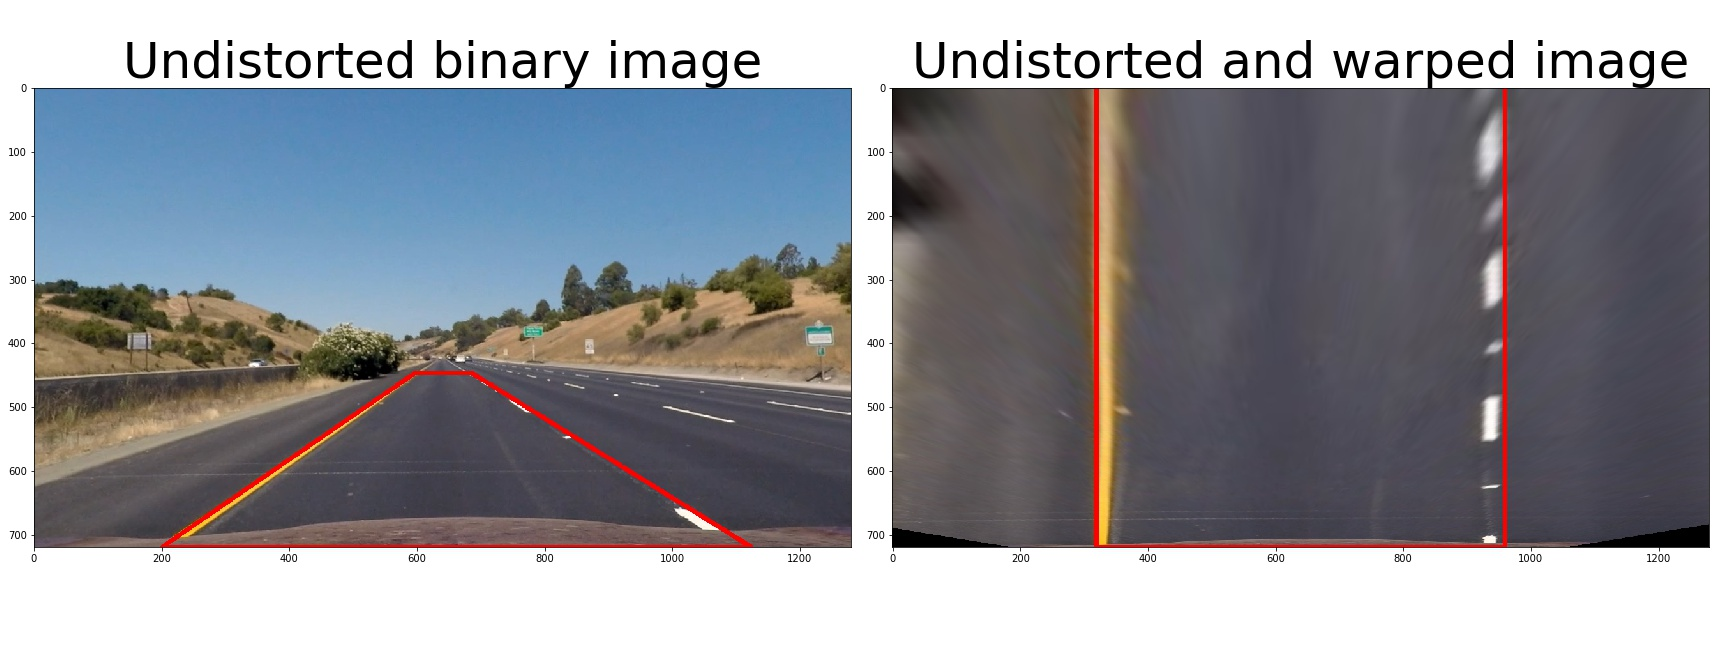
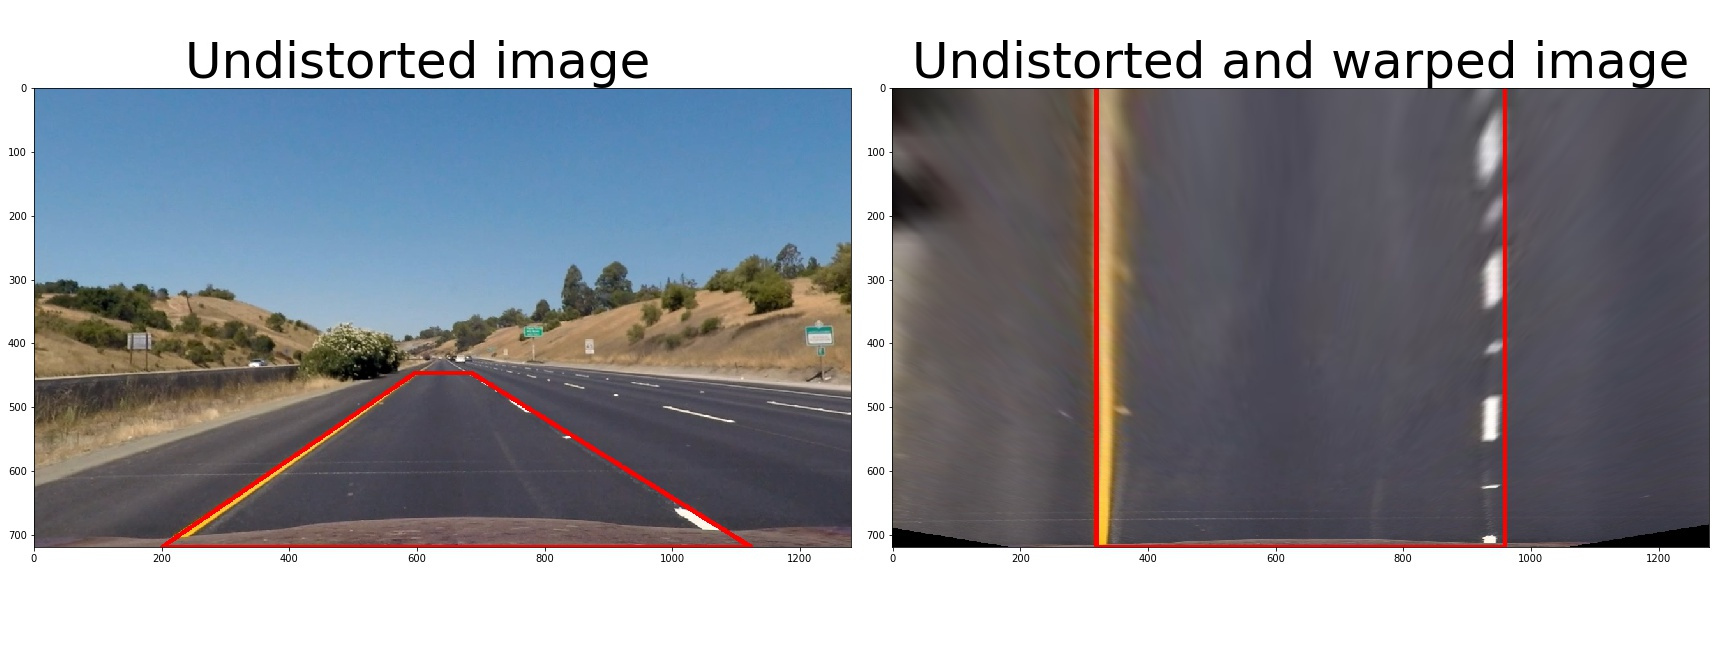
doc(README): update image5 and add details in explanation

Changed region(s): [[0.0625, 0.0617, 0.4375, 0.1235]]

diff --git a/README.md b/README.md
@@ -37,26 +37,26 @@ The code for this step is contained in the functions `compute_camera_calibration
 
 First I prepare "object points", which will be the (x, y, z) coordinates of the chessboard corners in the world. Here I am assuming the chessboard is fixed on the (x, y) plane at z=0, such that the object points are the same for each calibration image.  Thus, `objp` is just a replicated array of coordinates, and `objpoints` will be appended with a copy of it every time I successfully detect all chessboard corners in a test image.  `imgpoints` will be appended with the (x, y) pixel position of each of the corners in the image plane with each successful chessboard detection.  
 
-I then used the output `objpoints` and `imgpoints` to compute the camera calibration and distortion coefficients using the `cv2.calibrateCamera()` function.  I applied this distortion correction to the test image using the `cv2.undistort()` function and obtained this result: 
+I then use the output `objpoints` and `imgpoints` to compute the camera calibration and distortion coefficients using the `cv2.calibrateCamera()` function.  I applied this distortion correction to the test image using the `cv2.undistort()` function and obtained this result: 
 
 ![alt text][image0]
 
 ### Pipeline
 
-#### 1. Input image distortion correction.
+#### 1. Input image distortion correction
 
 In this step I use the distortion coefficients from the calibration step and `undistort_image()` to undistort the input image. This is the result of the undistortion for one of the input images:
 ![alt text][image3]
 
-#### 2. Color transforms to create a thresholded binary image.
+#### 2. Color transforms to create a thresholded binary image
 
-For seperating the lane markings from the background I convert the input image into the HSL color space and use a combination of thresholds on different color channels to generate a binary image (thresholding steps in function `image_to_thresholded_binary()` at lines 269 through 287 and `extract_single_color()` at lines 195 through 210). This way I can detect the white lane markings by thresholding based on the L (lightness) value. To improve detection of the yellow lane markings filtering the image by the corresponding H (hue) values helps for a good detection especially in darker areas (shadows etc.). Here's an example of my output for this step:
-
+For seperating the lane markings from the background I convert the input image into the HSL color space and use a combination of thresholds on different color channels to generate a binary image (thresholding steps in function `image_to_thresholded_binary()` at lines 269 through 287 and `extract_single_color()` at lines 195 through 210). This way I can detect the white lane markings by thresholding based on the L (lightness) value. To improve detection of the yellow lane markings filtering the image by the corresponding H (hue) values helps for a good detection especially in darker areas (shadows etc.). The result of both thresholded images are then combined. Here's an example of the output for this step:
 ![alt text][image4]
+As you can see the lane markings are selected and the rest of the street got cut out quite nicely, particularly in the region of interest which is our lane. There are other detections that are outside of our ROI, such as the landscape in the background and detections of the cars on other lanes. We do not have to worry about these detections because these parts of the image will get cut out in the perspective transform which is the next step in the pipeline.
 
-#### 3. Perform a perspective transform to generate a birds-eye-view.
+#### 3. Perform a perspective transform to generate a "birds-eye view"
 
-The code for my perspective transform includes a function called `warp()`, which appears in lines 290 through 301.  The `warp()` function takes as inputs an image (`img`), as well as source (`src`) and destination (`dst`) points. I chose to hardcode the source and destination points in the following manner:
+The code for my perspective transform includes a function called `warp()` (which appears in lines 290 through 301).  This `warp()` function takes as inputs an image (`img`), as well as source (`src`) and destination (`dst`) points. I choose to select and hardcode the source and destination points in the following manner to cut out the relevant ROI:
 
 ```python
 src = np.float32(
@@ -71,22 +71,22 @@ dst = np.float32(
     [950,img.shape[0]],
 ```
 
-This resulted in the following source and destination points:
+This results in the following source and destination points:
 
 | Source        | Destination   | 
 |:-------------:|:-------------:| 
 | 165, 720      | 300, 720      | 
-| 596, 447      | 300, 0        |
-| 681, 447      | 950, 0        |
+| 596, 447      | 300,   0      |
+| 681, 447      | 950,   0      |
 | 1124, 720     | 950, 720      |
 
-I verified that my perspective transform was working as expected by drawing the `src` and `dst` points onto a test image and its warped counterpart to verify that the lines appear parallel in the warped image.
+I verify that my perspective transform is working as expected by drawing the `src` and `dst` points onto a test image and its warped counterpart to verify that the lines appear parallel in the warped image.
 
 ![alt text][image5]
 
-#### 4. Identify lane-line pixels and fit their positions with a polynomial.
+#### 4. Identify lane-line pixels and fit their positions with a polynomial
 
-Now I have detected the lane markings and warped the input image to birds-eye-view. As next step I want to identify the pixels that are part of the left and right lane-markings to fit a polynomial. For this we can use two different approaches dependent on if we have a prior detection or not.
+Now I have detected the lane markings and warped the input image to "birds-eye view". As next step I want to identify the pixels that are part of the left and right lane-markings to fit a polynomial. For this we can use two different approaches dependent on if we have a prior detection or not.
 
 ##### Search from scratch
 
@@ -96,13 +96,13 @@ For seperating the left and right lane-markings I devide the image vertically (a
 
 ##### Search from prior
 
-In the case that we have already found a the polylines before we do not have to search from scratch again. We can search along the prior detected polylines and save processing time. For this I add a margin aroung the prior polylines and select all pixels within. Then I can fit my new polylines again. In my code this is done in the `search_polynomial_from_prior()` function. The approach to search from a prior polynom can result in a bad detection so I implemented a check if the new polylines make sence (in the code from line 548 to 575. Triggered by the function `validation_check_line()` ). This check compares the fitted line against the last 10 detections (realised with a `line` class in line 35 to 132 that stores the last 10 fitted lines). The output of the search from prior is displayed in the following image:
+In the case that we have already found polylines before, we do not have to search from scratch again. We can search along the prior detected polylines and save processing time. For this I add a margin aroung the prior polylines and select all pixels within - highlighted by the green area. Then I can fit my new polylines again - which are visualized as brown lines. In my code this is done in the `search_polynomial_from_prior()` function. The approach to search from a prior polynom can result in a bad detection so I implemented a check if the new polylines make sence (in the code from line 548 to 575, which gets triggered by the function `validation_check_line()` ). This check compares the fitted line against the last 10 detections (realised with a `line` class in line 35 to 132 that stores the last 10 fitted lines). The output of the search from prior is displayed in the following image:
 
 ![alt text][image7.2]
 
 ##### Sanity check and smoothing
 
-After fitting the left and the right polyline I do an additional sanity check if the left and right line actually represent a lane line. The function `validation_check_lane()` (line 572-575) triggers this check and compares the curvature as well as the distance of both polylines. If the lines are not valid I do another check for each the left and right line against the prior lines. If a line is not valid I use the average over the last 10 successfully fitted lines.
+After fitting the left and the right polyline I do an additional sanity check if the left and right line actually represent a lane line. The function `validation_check_lane()` (line 572-575) triggers this check and compares the curvature as well as the distance of both polylines. If the lines are not valid I do another check for each the left and right line against the prior lines. To check if a line is not valid I use the average over the last 10 successfully fitted lines.
 
 #### 5. Radius of curvature of the lane and the position of the vehicle with respect to center.
 
